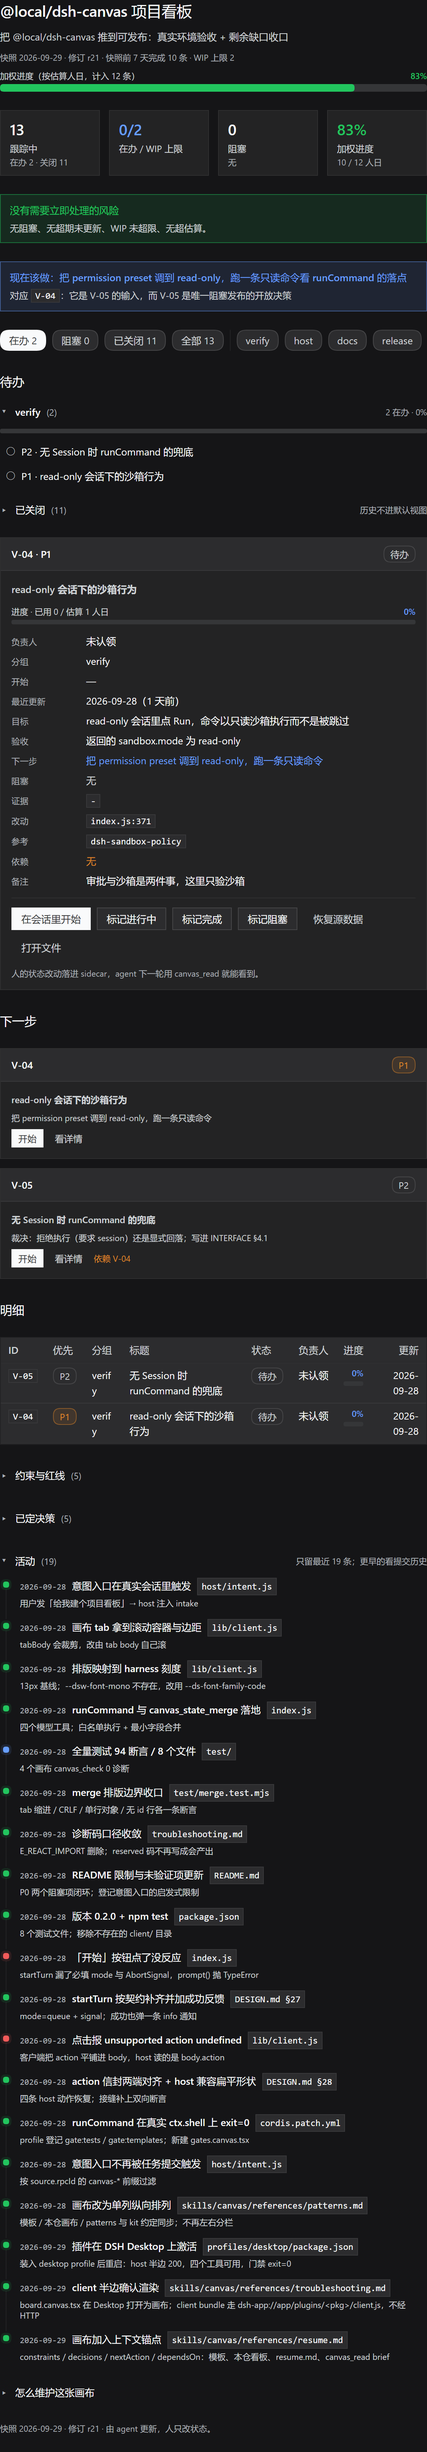
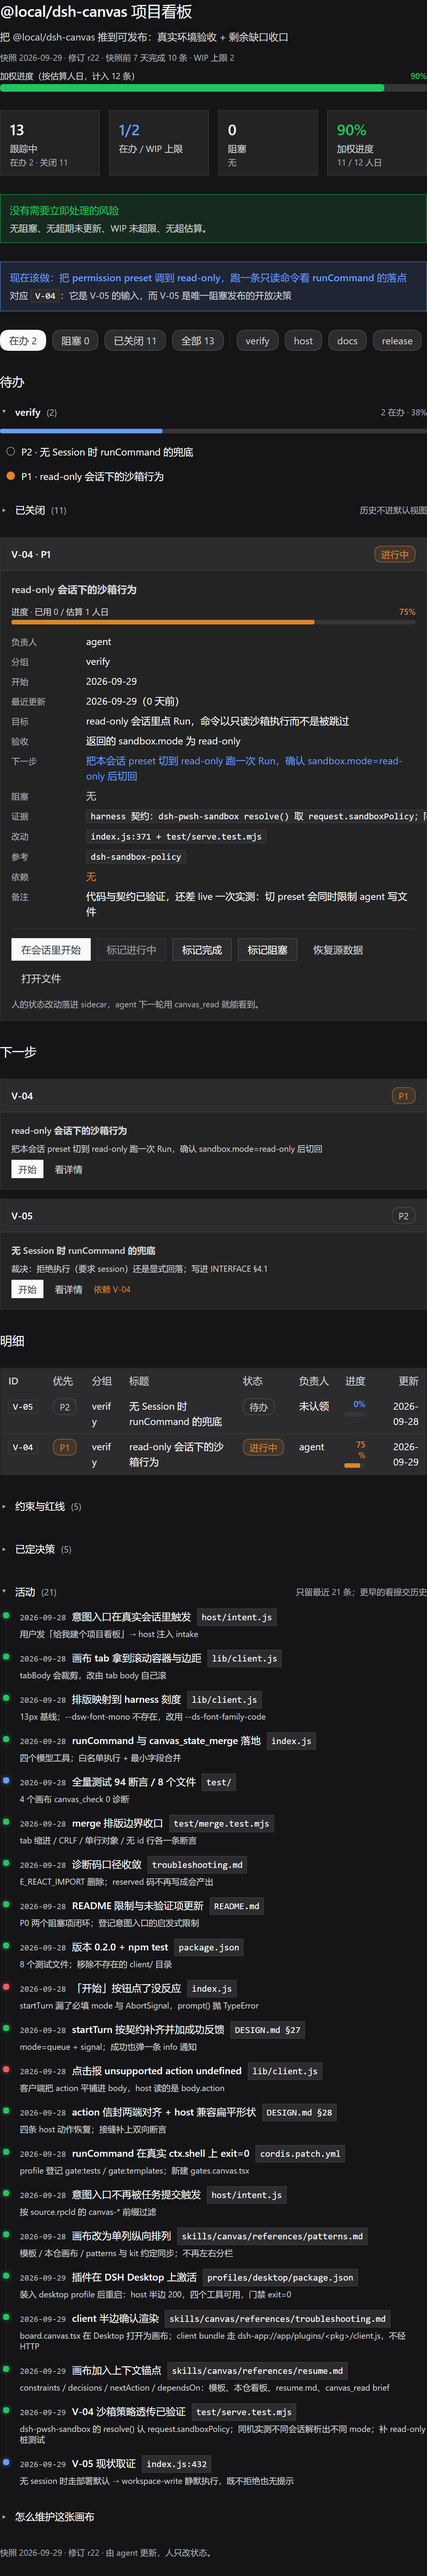
test(host): 钉住 read-only 会话的沙箱策略透传（V-04）
问题：runCommand 的桩测试里 sandboxPolicy.resolve 忽略参数、且没有 sessions 服务，
所以只覆盖了"部署默认"这条兜底路径 —— 真正要验的"调用方会话的策略透传"没被测到。

- 桩里补 sessions（可查找的会话）与会话感知的 sandboxPolicy.resolve，并让 execute 像
  dsh-pwsh-sandbox 那样把 spec 里的 mode 回填到 result.sandbox
- 断言：解析到的是调用方会话（policyCalls[0].session）、read-only 进了执行器
  （shellCalls[0].sandboxPolicy.mode）、响应里 sandbox.mode === "read-only"
- 新增反例：未知会话必须退回 policy.resolve()（不带参数）→ workspace-write

顺带取证（写进看板）：dsh-pwsh-sandbox 的 resolve() 取 request.sandboxPolicy，不传才回退
部署默认；同机实测不同会话解析出不同 mode（本会话 danger-full-access / 其他 workspace-write，
无 sessionId 时 workspace-write）。V-04 升到 75%，V-05 现状记录为「静默用部署默认」。

diff --git a/board.canvas.tsx b/board.canvas.tsx
@@ -29,7 +29,7 @@ type Task = {
 export const DATA = {
   goal: "把 @local/dsh-canvas 推到可发布：真实环境验收 + 剩余缺口收口",
   asOf: "2026-09-29",
-  revision: "r21",
+  revision: "r22",
   wipLimit: 2,
   staleDays: 7,
   lanes: ["verify", "host", "docs", "release"],
@@ -94,19 +94,19 @@ export const DATA = {
       goal: "没有调用方 Session 时，沙箱策略与工作区根应该怎么取",
       next: "裁决：拒绝执行（要求 session）还是显式回落；写进 INTERFACE §4.1",
       acceptance: "行为有明确文档与用例",
-      evidence: "真实 host：无 session 时 windows-acl-run 拒绝", write: "index.js",
-      ref: "INTERFACE.md §4.1", note: "面板总会带 sessionId，所以不影响按钮",
+      evidence: "实测：无 session 时 policy.resolve() 走部署默认 → workspace-write，命令照跑", write: "index.js",
+      ref: "INTERFACE.md §4.1", note: "现状是「静默用部署默认」：既不拒绝也没有提示；面板总会带 sessionId，所以不影响按钮",
     },
     {
       id: "V-04", lane: "verify", title: "read-only 会话下的沙箱行为",
-      status: "pending", priority: "P1", owner: "-",
-      progress: 0, estimate: 1, actual: 0,
-      startedAt: "", updatedAt: "2026-09-28", completedAt: "", blocker: "",
+      status: "in_progress", priority: "P1", owner: "agent",
+      progress: 75, estimate: 1, actual: 0,
+      startedAt: "2026-09-29", updatedAt: "2026-09-29", completedAt: "", blocker: "",
       goal: "read-only 会话里点 Run，命令以只读沙箱执行而不是被跳过",
-      next: "把 permission preset 调到 read-only，跑一条只读命令",
+      next: "把本会话 preset 切到 read-only 跑一次 Run，确认 sandbox.mode=read-only 后切回",
       acceptance: "返回的 sandbox.mode 为 read-only",
-      evidence: "-", write: "index.js:371",
-      ref: "dsh-sandbox-policy", note: "审批与沙箱是两件事，这里只验沙箱",
+      evidence: "harness 契约：dsh-pwsh-sandbox resolve() 取 request.sandboxPolicy；同机实测不同会话解析出不同 mode；补 read-only 桩测试", write: "index.js:371 + test/serve.test.mjs",
+      ref: "dsh-sandbox-policy", note: "代码与契约已验证，还差 live 一次实测：切 preset 会同时限制 agent 写文件",
     },
     {
       id: "F-01", lane: "host", title: "startTurn 的真实 prompt 形状",
@@ -217,6 +217,8 @@ export const DATA = {
     { id: "a17", at: "2026-09-29", title: "插件在 DSH Desktop 上激活", tone: "success", detail: "装入 desktop profile 后重启：host 半边 200，四个工具可用，门禁 exit=0", ref: "profiles/desktop/package.json" },
     { id: "a18", at: "2026-09-29", title: "client 半边确认渲染", tone: "success", detail: "board.canvas.tsx 在 Desktop 打开为画布；client bundle 走 dsh-app://app/plugins/<pkg>/client.js，不经 HTTP", ref: "skills/canvas/references/troubleshooting.md" },
     { id: "a19", at: "2026-09-29", title: "画布加入上下文锚点", tone: "success", detail: "constraints / decisions / nextAction / dependsOn：模板、本仓看板、resume.md、canvas_read brief", ref: "skills/canvas/references/resume.md" },
+    { id: "a20", at: "2026-09-29", title: "V-04 沙箱策略透传已验证", tone: "success", detail: "dsh-pwsh-sandbox 的 resolve() 认 request.sandboxPolicy；同机实测不同会话解析出不同 mode；补 read-only 桩测试", ref: "test/serve.test.mjs" },
+    { id: "a21", at: "2026-09-29", title: "V-05 现状取证", tone: "info", detail: "无 session 时走部署默认 → workspace-write 静默执行，既不拒绝也无提示", ref: "index.js:432" },
   ],
 } as const;
 
